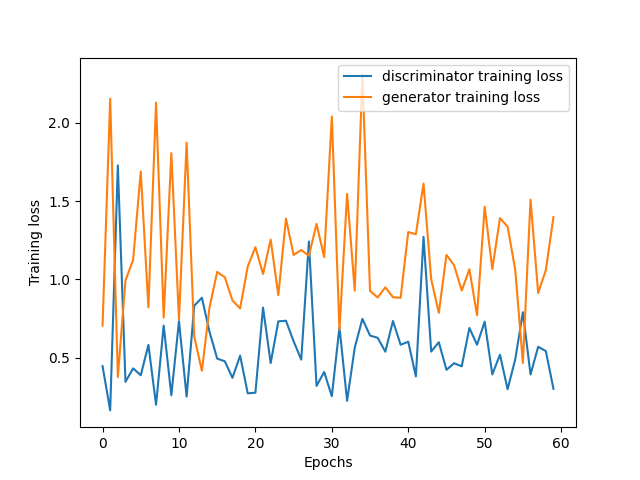
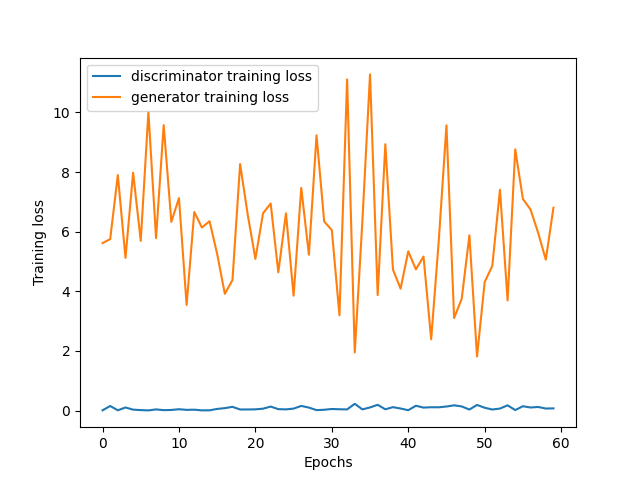
Running 3 discrim for every gen

diff --git a/DeepLearning/hw2/q2_template/train_gan.py b/DeepLearning/hw2/q2_template/train_gan.py
@@ -13,6 +13,42 @@ from utils import *
 import numpy as np
 from torch.autograd import Variable
 
+# function to train the discriminator network
+def train_dis(optim_dis, data_real, data_fake, loss, dis, device):
+    # create real, fake labels
+    batch_size = data_real.shape[0]
+    real_label = label_real(batch_size).to(device)
+    fake_label = label_fake(batch_size)
+    optim_dis.zero_grad()
+
+    # loss for real (from world)
+    output_real = dis(data_real)
+    loss_real = loss(output_real, real_label)
+    # loss for fake (generated) 
+    output_fake = dis(data_fake)
+    loss_fake = loss(output_fake, fake_label)
+
+    loss_real.backward()
+    loss_fake.backward()
+    optim_dis.step()
+    
+    return (loss_real + loss_fake)/2
+
+# function to train the generator network
+def train_gen(optim_gen, data_fake, loss, dis):
+    batch_size = data_fake.size(0)
+    real_label = label_real(batch_size)
+
+    optim_gen.zero_grad()
+
+    output = dis(data_fake)
+    loss = loss(output, real_label)
+
+    loss.backward()
+    optim_gen.step()
+
+    return loss
+
 def main():
     # check if cuda available
     device = 'cuda:0' if torch.cuda.is_available() else 'cpu'
@@ -50,39 +86,59 @@ def main():
     losses_gen = []
     losses_dis = []
     # train the GAN model
+    gen.train()
+    dis.train()
     for epoch in range(num_epochs):
+        loss_gen = 0
+        loss_dis = 0
+        
+
         for n_batch, (local_batch, __) in enumerate(airfoil_dataloader):
             y_real = local_batch.to(device) # 16x200
 
-             # Adversarial ground truths
-            valid = Variable(Tensor(y_real.shape[0], 1).fill_(1.0), requires_grad=False)
-            fake = Variable(Tensor(y_real.shape[0], 1).fill_(0.0), requires_grad=False)
-            # -----------------
-            #  Train Generator
-            # -----------------
-            optim_gen.zero_grad() 
-            # Sample noise as generator input
-            # np.random.normal(mean,sd,(output_shape))
-            z = Variable(Tensor(np.random.normal(0, 1, (y_real.shape[0], latent_dim))))
-            # Generate a batch of images
-            gen_imgs = gen(z)
-            # Loss measures generator's ability to fool the discriminator
-            loss_gen = loss(dis(gen_imgs), valid)
-            loss_gen.backward()
-            optim_gen.step()
+            batch_size = y_real.shape[0]
 
-            # # ---------------------
-            # #  Train Discriminator
-            # # ---------------------
-            optim_dis.zero_grad()
+            for step in range(3):
+                # real, fake images
+                data_fake = gen(create_noise(batch_size, latent_dim)).detach()
+                data_real = y_real
+                # train discriminator network
+                loss_dis = train_dis(optim_dis, data_real, data_fake, loss,\
+                    dis, device)
+            # run generator given input noise
+            data_fake = gen(create_noise(batch_size, latent_dim))
+            # train generator 
+            loss_gen = train_gen(optim_gen, data_fake, loss, dis)
+          
+            #  # Adversarial ground truths
+            # valid = Variable(Tensor(y_real.shape[0], 1).fill_(1.0), requires_grad=False)
+            # fake = Variable(Tensor(y_real.shape[0], 1).fill_(0.0), requires_grad=False)
+            # # -----------------
+            # #  Train Generator
+            # # -----------------
+            # optim_gen.zero_grad() 
+            # # Sample noise as generator input
+            # # np.random.normal(mean,sd,(output_shape))
+            # z = Variable(Tensor(np.random.normal(0, 1, (y_real.shape[0], latent_dim))))
+            # # Generate a batch of images
+            # gen_imgs = gen(z)
+            # # Loss measures generator's ability to fool the discriminator
+            # loss_gen = loss(dis(gen_imgs), valid)
+            # loss_gen.backward()
+            # optim_gen.step()
 
-            # # Measure discriminator's ability to classify real from generated samples
-            real_loss = loss(dis(y_real), valid) # real world
-            fake_loss = loss(dis(gen_imgs.detach()), fake) # output from generator 
-            loss_dis = (real_loss + fake_loss) / 2
+            # # # ---------------------
+            # # #  Train Discriminator
+            # # # ---------------------
+            # optim_dis.zero_grad()
 
-            loss_dis.backward()
-            optim_dis.step()
+            # # # Measure discriminator's ability to classify real from generated samples
+            # real_loss = loss(dis(y_real), valid) # real world
+            # fake_loss = loss(dis(gen_imgs.detach()), fake) # output from generator 
+            # loss_dis = (real_loss + fake_loss) / 2
+
+            # loss_dis.backward()
+            # optim_dis.step()
 
             # print loss while training
             if (n_batch + 1) % 30 == 0:

diff --git a/DeepLearning/hw2/q2_template/utils.py b/DeepLearning/hw2/q2_template/utils.py
@@ -7,6 +7,7 @@ import torch
 import matplotlib.pyplot as plt
 
 
+
 def plot_airfoils(airfoil_x, airfoil_y):
     '''
     plot airfoils: no need to modify 
@@ -20,3 +21,15 @@ def plot_airfoils(airfoil_x, airfoil_y):
             col.axis('equal')
             idx += 1
     plt.show()
+
+
+def label_real(size):
+    data = torch.ones(size, 1)
+    return data
+# to create fake labels (0s)
+def label_fake(size):
+    data = torch.zeros(size, 1)
+    return data
+# function to create the noise vector
+def create_noise(batch_size, latent_dim):
+    return torch.randn(batch_size, latent_dim)
